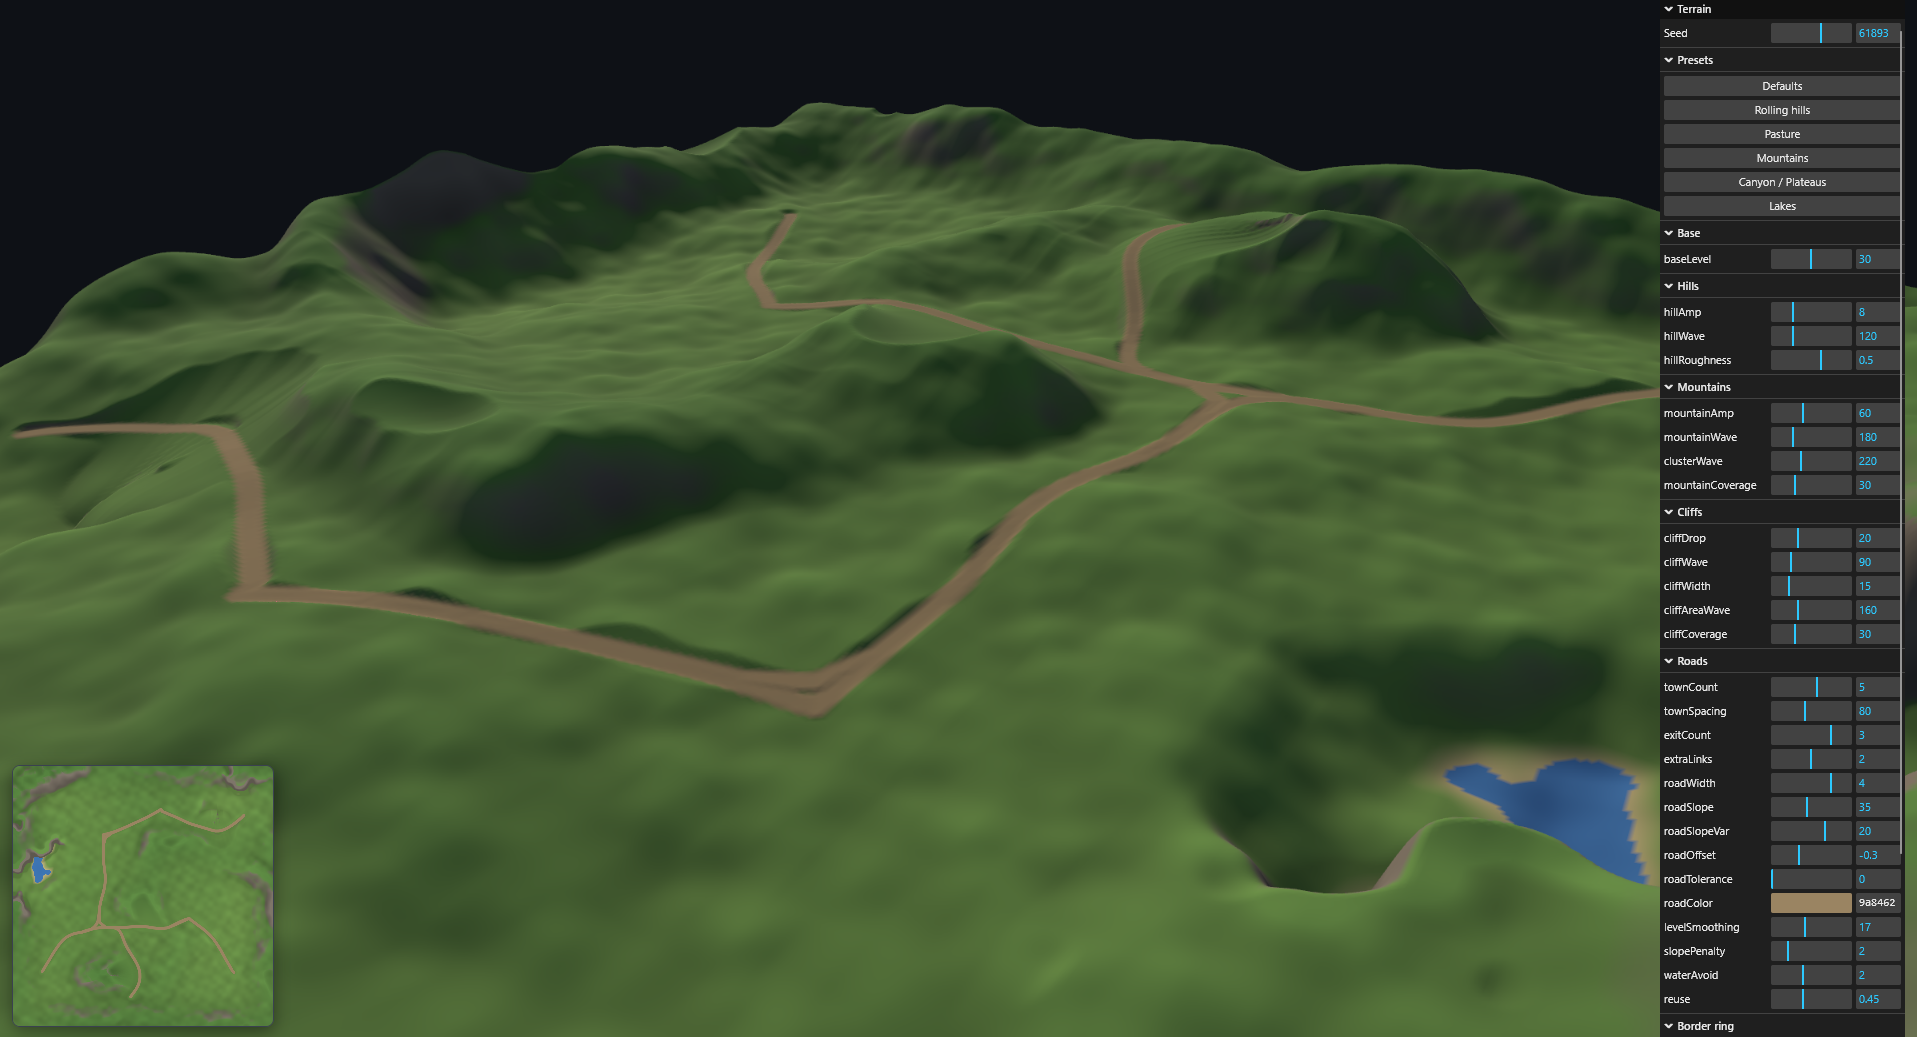
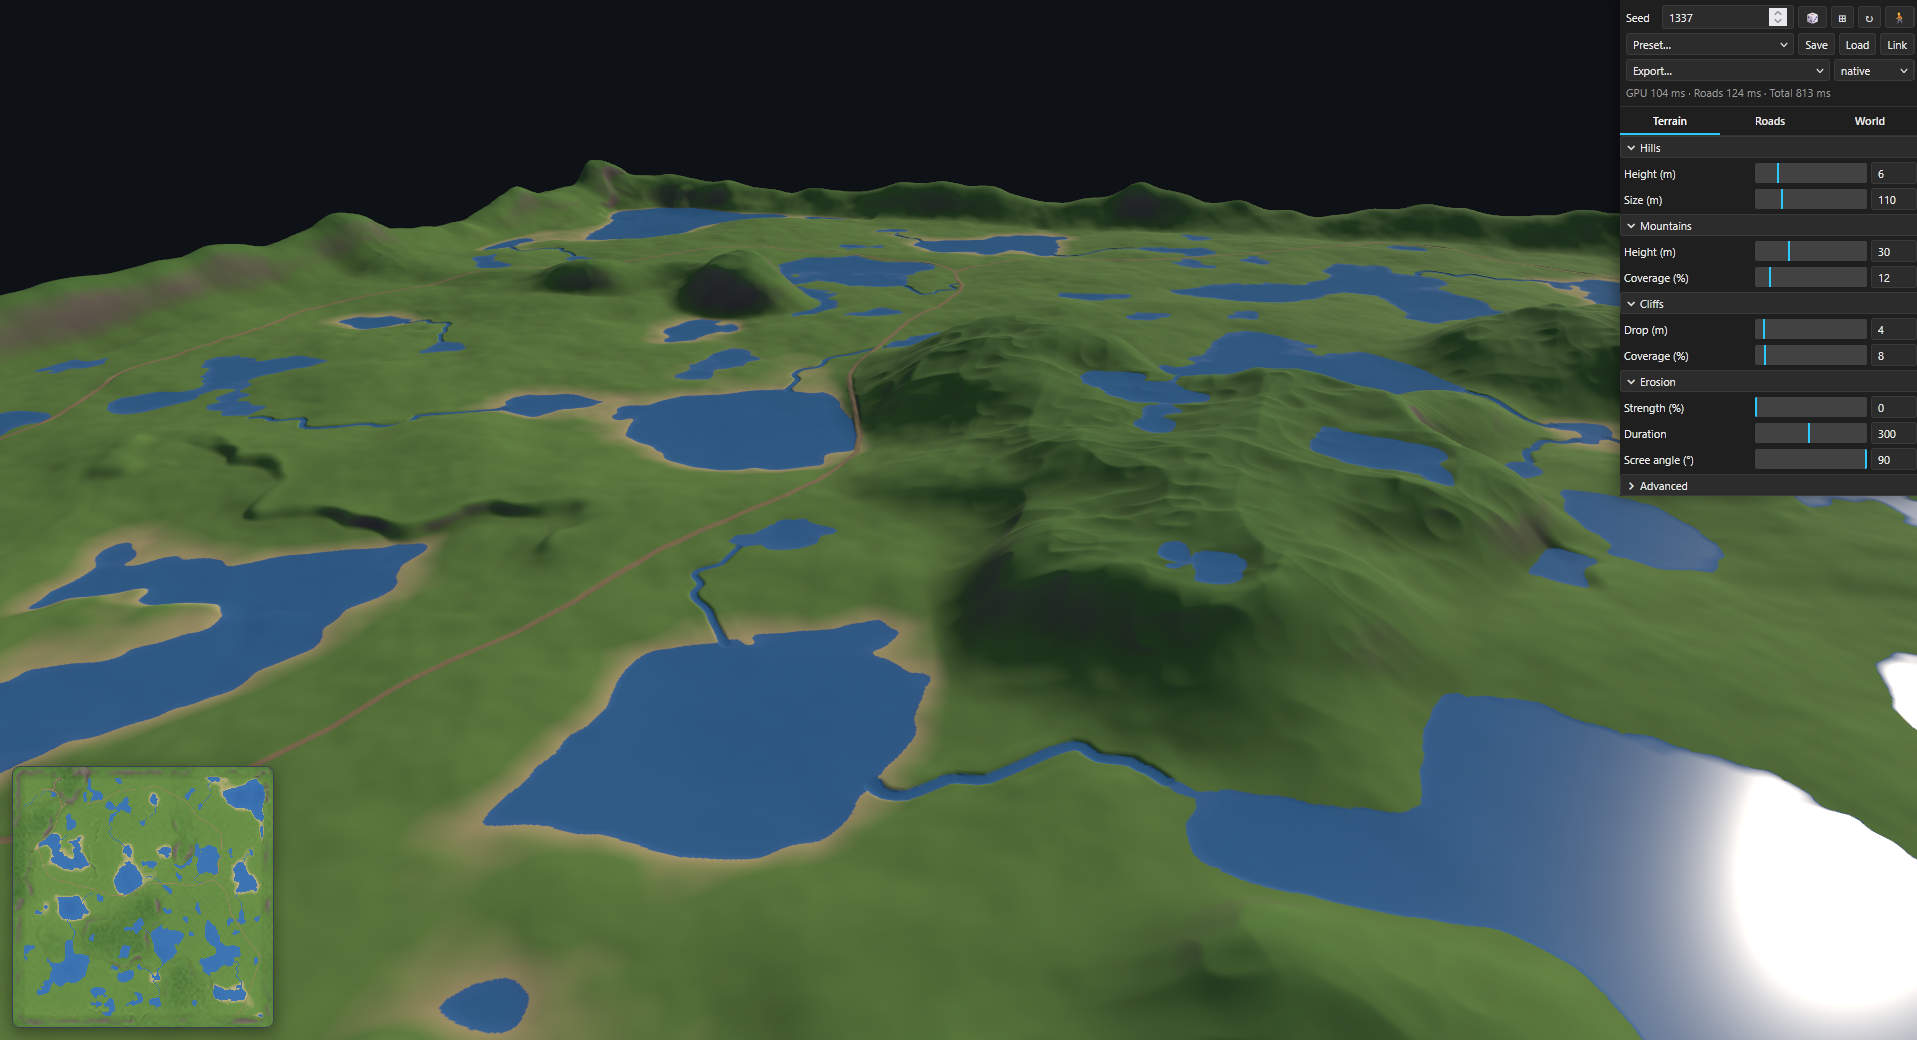
R18: neuer Screenshot, Online-Version im Quick start; README fertig

diff --git a/Plan/Roadmap.md b/Plan/Roadmap.md
@@ -89,7 +89,7 @@ headless: von oben keine Kreise mehr (auch Radius 15 im Berg-Terrain), Kern-Span
   Mäander, Bergseen, echter 3D-Wasserspiegel, Straßen nie unter Wasser, aus = bitgleich; Preset „River valley“) — geprüft am 2026-09-12
 - [x] R17 Map-Größe (Detailplan `Plan/erledigt/MapGroesse.md`: Regler 200–1000 m, Auflösungen fest, 400 m bitgleich,
   roadgen-/hydro-Test bei 400 + 800 m, Fahrbahn- und Flussbreite in m gleich) — geprüft am 2026-09-12
-- [ ] R18 README — Feature-Liste, Parameter-Tabelle, Pipeline auf Stand R17 (2026-09-12); offen: neuer Screenshot
-  (liefert User → `docs/generator.png`); Pages-Link drin + auf GitHub gerendert (2026-09-12)
+- [x] R18 README — Feature-Liste, Parameter-Tabelle, Pipeline auf Stand R17, neuer Screenshot (User), Pages-Link;
+  auf GitHub gerendert — geprüft am 2026-09-12
 
 <!-- fertig: git mv Plan/<Datei>.md Plan/erledigt/ -->

diff --git a/README.md b/README.md
@@ -7,7 +7,7 @@ heightmap, masks and mesh for your engine.
 
 **▶ Try it in your browser: https://m-w-marker.github.io/heightmap-level-generator/** (needs WebGPU, e.g. current desktop Chrome or Edge)
 
-![Generator: 3D terrain with road network, 2D map and parameter panel](docs/generator.png)
+![Generator: 3D terrain with lakes, rivers and roads, 2D map and parameter panel](docs/generator.png)
 
 ## Features
 
@@ -53,7 +53,8 @@ heightmap, masks and mesh for your engine.
 
 ## Quick start
 
-Requires Node.js and a browser with WebGPU (current Chrome or Edge).
+No install needed for the [online version](https://m-w-marker.github.io/heightmap-level-generator/). To run it locally
+you need Node.js and a browser with WebGPU (current Chrome or Edge).
 
 ```bash
 cd app
